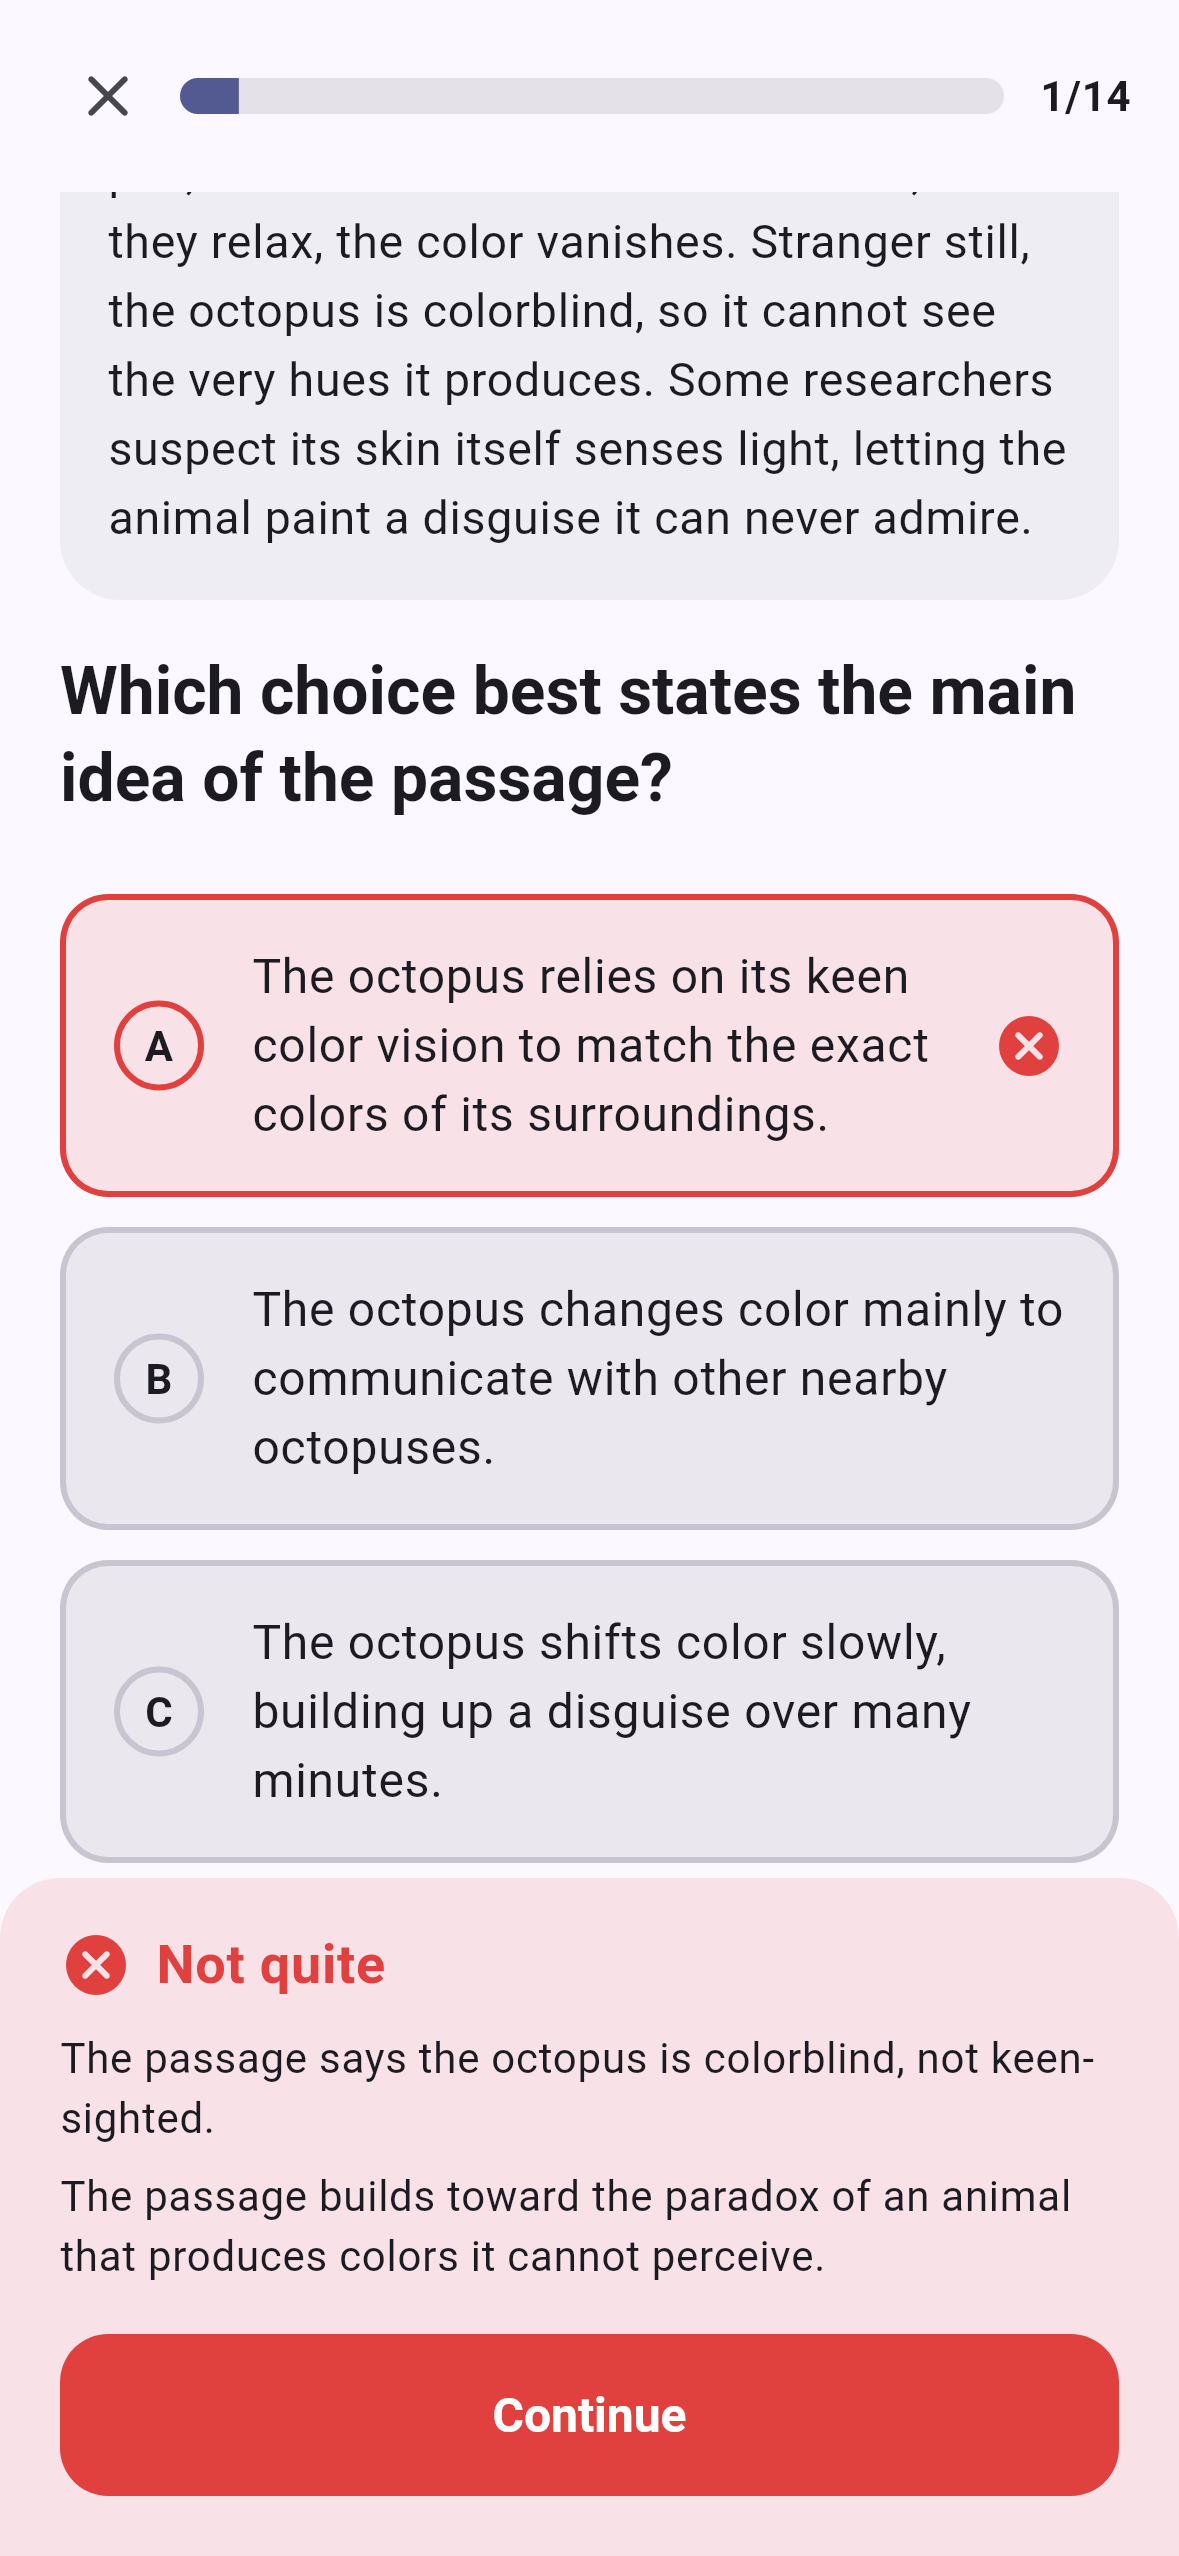
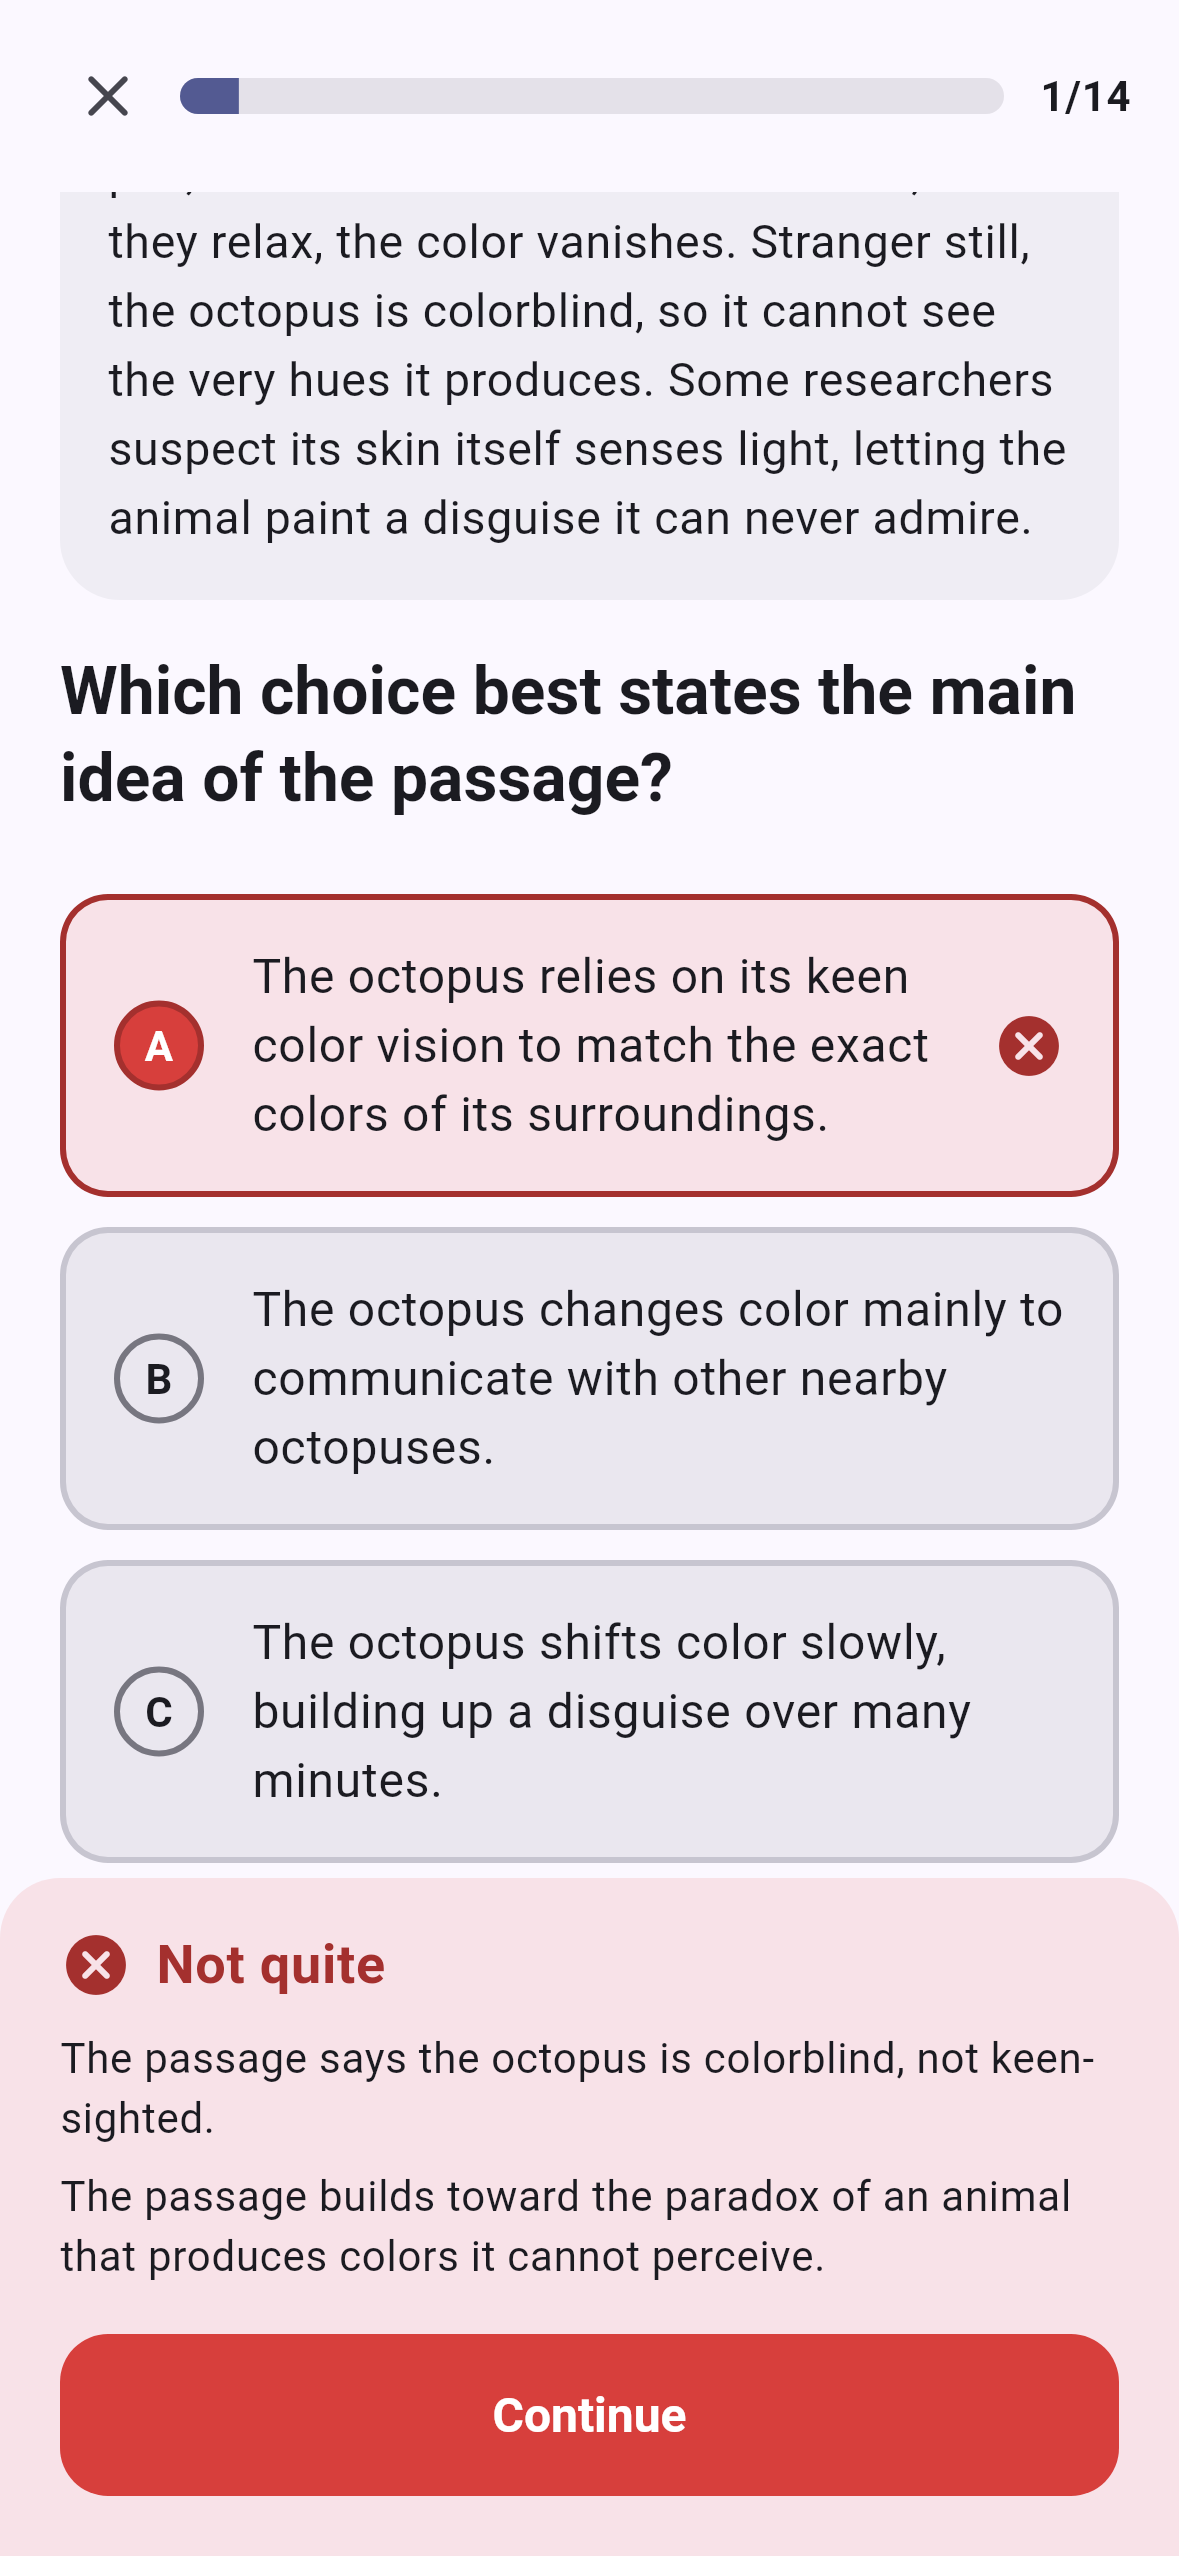
v2.3.0: docs, regenerated screenshots, version bump
Answer-key audit, adaptive SAT test, Smart practice + placement check,
reminders, per-question lesson resume, long ACT passages and an
accessibility pass (see PROGRESS.md 2.3.0). Content 2.4.0.

Claude-Session: https://claude.ai/code/session_01JuAfHkA4chYBvhEiUhrkwo

diff --git a/test/screenshots/reminders_preview_test.dart b/test/screenshots/reminders_preview_test.dart
@@ -185,7 +185,7 @@ void main() {
       skip: !fontsAvailable,
       (tester) async {
         await _pump(tester, MemoryStore(), FakeNotificationGateway());
-        for (var i = 0; i < 4; i++) {
+        for (var i = 0; i < 3; i++) {
           await tester.tap(find.text('Continue'));
           await tester.pumpAndSettle();
         }

diff --git a/lib/core/app_info.dart b/lib/core/app_info.dart
@@ -5,4 +5,4 @@
 /// pubspec.yaml when cutting a release (see docs/release.md).
 library;
 
-const String kAppVersion = '2.2.2';
+const String kAppVersion = '2.3.0';

diff --git a/PROGRESS.md b/PROGRESS.md
@@ -26,7 +26,7 @@ publishes the GitHub Release (see docs/release.md). Never push tags by hand — 
 sessions cannot, and the workflow does it for you. The avatar pack repo works the same
 way (`pubspec.yaml` version there → `vX.Y.Z` tag + release on merge).
 
-## Latest state (v2.2.2)
+## Latest state (v2.3.0)
 
 - **Two exams.** SAT and ACT. Onboarding offers every exam listed in
   `assets/content/exams.json`; Settings → Exam switches (XP/streak/rewards carry
@@ -34,9 +34,9 @@ way (`pubspec.yaml` version there → `vX.Y.Z` tag + release on merge).
   `masteryKey`). Nothing in `lib/features/` hard-codes an exam: domains, the timed-test
   layout and the score scale come from the bundle (`Exam.timedTest`, `Exam.scoring`,
   `ExamScoring` — SAT 200–800/1600, ACT 1–36 + composite of English/Math/Reading).
-- **Content:** SAT 117 lessons / 31,177 questions; ACT
-  147 lessons / 21,645 questions (English, Math with 5 choices,
-  Reading, Science). Generated by `tools/generate_content.py` walking per-exam plans
+- **Content (2.4.0):** SAT 117 lessons / 31,172 questions; ACT
+  147 lessons / 21,780 questions (English, Math with 5 choices,
+  Reading incl. 15 ACT-length passage sets, Science). Generated by `tools/generate_content.py` walking per-exam plans
   (`tools/content_gen/exam_plans.py`) over **question families** (`registry.py`):
   every skill has several distinct question forms per difficulty, round-robined within
   each lesson, and the validator fails any generated lesson with < 3 families or one
@@ -60,10 +60,37 @@ way (`pubspec.yaml` version there → `vX.Y.Z` tag + release on merge).
   guarded by `test/render/face_fit_test.dart` (every fitted item on every avatar),
   `test/render/catalog_geometry_test.dart` (whole catalog, fallback boxes) and the
   pixel tests in `test/render/overlap_test.dart`.
-- **Quality:** `flutter analyze` clean; `dart format` clean; Flutter suite 257
+- **Quality:** `flutter analyze` clean; `dart format` clean; Flutter suite 532
   tests; Python tooling suite (`python -m unittest discover -s tools/tests -t .`) covers
   the registry, plans, orchestrator, validator, bundler and every generator family. CI
   runs all of it plus the validator for every exam and the bundle-freshness check.
+- **2.3.0:** seven upgrades, built on separate branches and integrated together.
+  - **Answer-key audit** (`tools/audit/`): `automated_checks.py` re-solves math, checks
+    structure/explanations on every question (fixed 339 items); `export_sample.py`
+    (`--families`) + `compare.py` run blind independent solving of stratified samples.
+    Two solver rounds fixed reversed SD keys, transition relations, possessive number,
+    pronoun ambiguity, scatterplot fits, duplicate-value choices and more at the
+    generator level (regression tests in `tools/tests/test_audit_phase3_fixes.py`).
+    Final spot-checks: 99.4% / 99.3% agreement, 0 high-confidence disagreements.
+  - **Adaptive SAT practice test** (`domain/services/timed_test.dart`,
+    `features/test/test_result_views.dart`): module 2 of each section is harder or
+    easier by module-1 accuracy (`timed_test.adaptive.route_threshold`, 0.6); original
+    nonlinear, route-aware score curves (easier route caps at 640/section); ACT stays
+    linear with its own curve.
+  - **Smart practice + placement check:** `recommendation_engine`, `adaptive_difficulty`
+    (~70% target, step up/down in session), `smart_practice`, `diagnostic_engine`;
+    "Recommended for you" on Home; optional 12-question placement check at the end of
+    onboarding (no XP; seeds `SkillMastery.seeded` estimates; retake from Home/Settings).
+  - **Reminders** (`core/notifications/`, `reminder_planner`, `reminders_section`,
+    `notification_route_handler`): opt-in local daily reminder + 8 PM streak nudge,
+    permission asked only when enabled; offered on the onboarding goal step.
+  - **Lesson resume** (`lessonResume.v1`, `lesson_resume_controller`): per-question,
+    content-fingerprinted, no double XP; Resume / Start over; in-progress marker on Home.
+  - **Long ACT passages** (`passages_long*.py`, `passage_panel.dart`): 12 single + 3
+    paired 650–740-word sets, 9 questions each, dealt whole in the timed test.
+  - **Accessibility:** screen-reader labels/announcements, text scaling to 2.0,
+    WCAG-AA colours via `AppColors` + `design/contrast.dart`, 48dp targets, reduce
+    motion; Progress/Achievements moved to the Home "More" menu; `test/a11y/`.
 - **2.2.2:** avatar pack v3.2.1. Eight avatars whose art already wears glasses
   (`CatalogAsset.builtInSlots`, from the pack's `built_in_slots`) no longer get a second
   pair stacked on top: the equipped item stays equipped but is hidden on that avatar,

diff --git a/docs/roadmap.md b/docs/roadmap.md
@@ -5,23 +5,21 @@
 - **Two exams.** SAT and ACT ship; switching exams in Settings keeps XP, streaks and
   rewards (lesson/question ids are exam-prefixed, so each exam keeps its own path
   progress; skills with the same id share mastery across exams).
-- **Score estimates are linear.** Section scores (SAT 200–800, ACT 1–36) are mapped
-  from accuracy, not from an official equating table.
-- **ACT Reading uses the shared passage pool.** Passages are shorter than a real ACT
-  reading passage (one question per skill per passage).
-- **Lesson resume is coarse.** Leaving a lesson mid-way discards in-lesson progress
-  (with a confirm dialog); completed-lesson state is always saved. Per-question resume
-  is not implemented.
+- **Score estimates are approximate.** Section scores come from original nonlinear,
+  route-aware curves, not an official equating table.
+- **ACT Reading** has 15 ACT-length passage sets (9 questions each) plus the shared
+  short-passage pool.
+- **Resume** is per-question for lessons; reviews and practice sessions are not resumable.
 - **Audio is a small SFX set.** The app ships original melodic cues + Kenney CC0
   clicks (`assets/audio/`, gated by the Sound setting); there is no music or
   voiceover yet.
 - **Single-file persistence.** State is JSON in `shared_preferences`. This is robust at
   the current scale (hundreds of entries) but is not a query-able database.
-- **Content breadth.** SAT: 117 curated lessons + practice bank (31,177 questions);
-  ACT: 147 lessons + bank (21,645 questions). Every generated skill mixes several
+- **Content breadth.** SAT: 117 curated lessons + practice bank (31,172 questions);
+  ACT: 147 lessons + bank (21,780 questions). Every generated skill mixes several
   question families per difficulty. Passage-based reading comprehension is authored
   (69 passages + 29 paired sets, shared by both exams), so heavy passage-reading-only
-  practice still cycles sooner than math, grammar or science; ACT Reading has 360 items.
+  practice still cycles sooner than math, grammar or science; ACT Reading has 495 items.
 - **Android-first.** iOS/web/desktop targets are scaffolded and the code is
   cross-platform, but only Android is built/tested in CI.
 
@@ -31,18 +29,12 @@
 - Grow the bank (more lessons per skill, more reading passages, more grid-ins).
 - Add AP (Biology, Chemistry, Calculus, Statistics) exams using the existing
   per-exam plans.
-- Longer ACT-style reading passages with multiple questions each; more
-  conflicting-viewpoint sets.
 
 **Learning**
-- Adaptive difficulty and smarter "suggested next" using mastery + review signals.
-- A full diagnostic flow during onboarding to seed mastery.
-- Per-question lesson resume.
 
 **Platform & polish**
 - iOS, web, and desktop builds in CI; release signing for Play Store.
-- Richer animations/sound, optional reminders/notifications.
-- Accessibility pass (screen-reader labels, larger text scaling, contrast review).
+- Richer animations/sound; iOS notification wiring.
 
 **Infrastructure**
 - Migrate persistence to Drift/Isar if the data model grows query-heavy.

diff --git a/README.md b/README.md
@@ -12,12 +12,18 @@ no network.
 - **Content:** every question is original and generated from a library of
   **question families** — many distinct forms per skill, mixed within each lesson
   so nothing feels like one template with new numbers.
-  - SAT: 117 lessons, 31,177 questions
-    (15,192 Math, 15,985 Reading & Writing).
-  - ACT: 147 lessons, 21,645 questions
-    (6,753 English, 13,032 Math, 360 Reading,
-    1,500 Science), with 5-choice Math and NO CHANGE-style English.
+  - SAT: 117 lessons, 31,172 questions
+    (15,192 Math, 15,980 Reading & Writing).
+  - ACT: 147 lessons, 21,780 questions
+    (6,753 English, 13,032 Math, 495 Reading incl.
+    15 ACT-length passage sets, 1,500 Science), with 5-choice Math and NO CHANGE-style English.
   - No copyrighted College Board or ACT, Inc. material.
+- **Learning:** an optional placement check at onboarding, "Recommended for you"
+  picks and Smart practice that adapts difficulty, per-question lesson resume, an
+  adaptive SAT practice test (module 2 adapts to module 1), and opt-in reminders.
+- **Answer keys are audited** (`tools/audit/`): automated re-solving of every question
+  plus blind independent solving of stratified samples.
+- **Accessible:** screen-reader labels, large-text layouts, WCAG-AA colours, reduce motion.
 - **Stack:** Flutter (stable, 3.35.5), Material 3, Riverpod, GoRouter,
   `shared_preferences` persistence.
 
